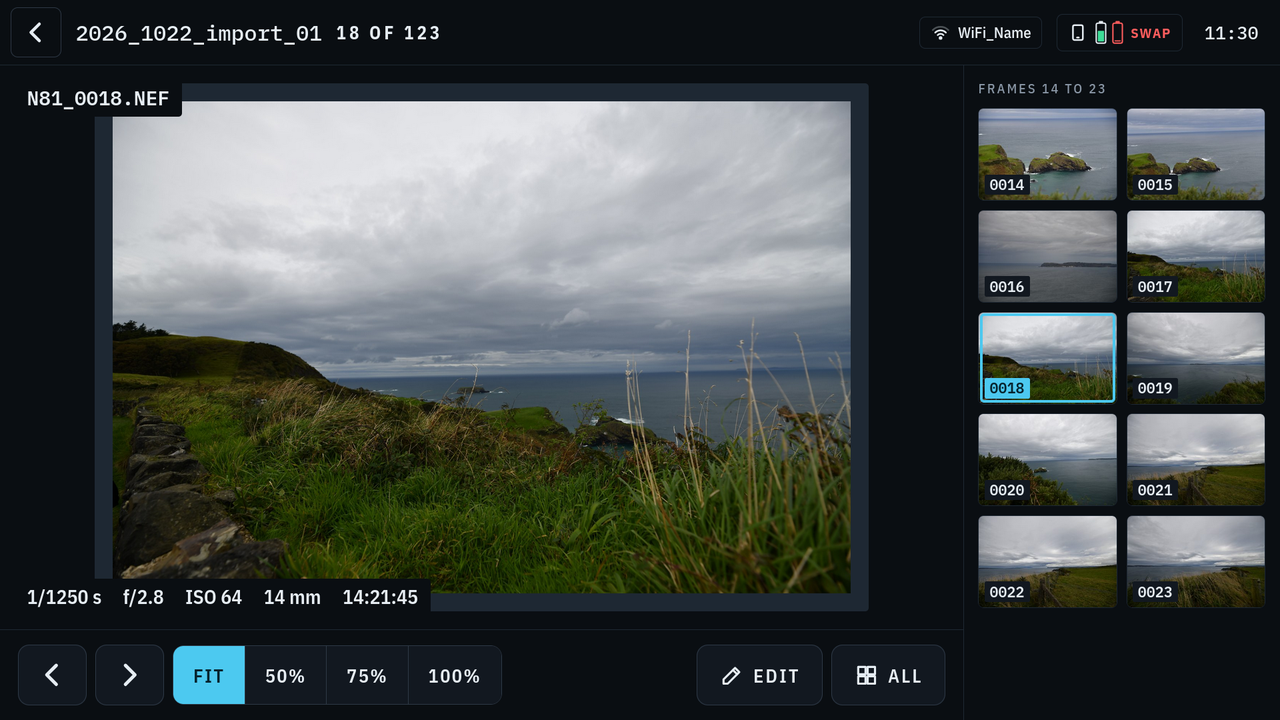
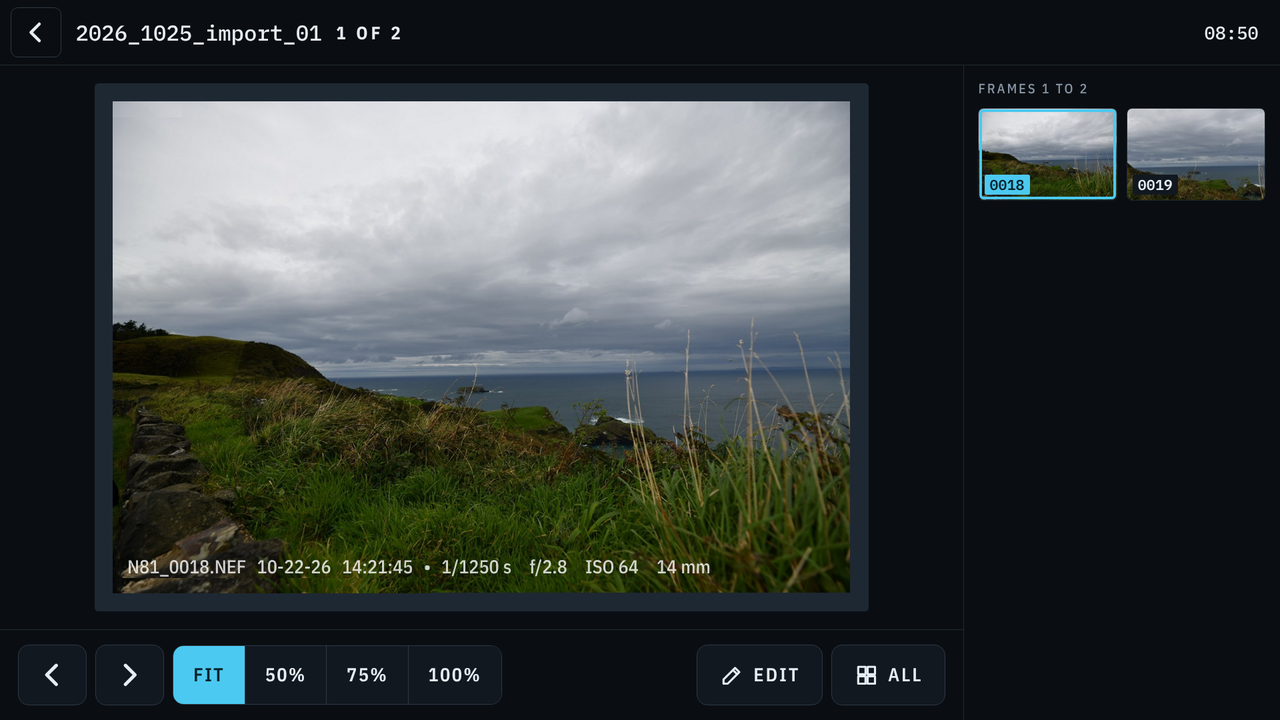
DoubleTake 1.0.3c: Start begins the backup, the date in the viewer, the backlight fades
- Start on the home screen begins the backup, as P1 does; a message says why when it cannot.
- The viewer's line carries the day taken, as 10-22-26.
- The boot ring takes the start-up logo's own shape and place, so one turns into the other.
- doubletake-backlight.service: the brightness fades to its saved level at start-up instead
  of jumping partway through the boot screen.
- GNOME's terminal opens a third larger, window and text, for the updater and Settings.
- Each release gets doubletake-<version>.zip with both packages and install.sh.
- New viewer and Settings, NAS screenshots, and the docs to match.

Claude-Session: https://claude.ai/code/session_018cKjEZUWd3s9HJrQy4wnD2

diff --git a/doubletake/web/app.js b/doubletake/web/app.js
@@ -1248,7 +1248,19 @@ async function prepareDrive() {
 
 // ----- buttons ----------------------------------------------------------------------
 
-$("cam-ready").addEventListener("click", () => { view = "ready"; render(); });
+// Start on the home screen starts the backup itself, as P1 does. Anything that stops it
+// (the tablet's battery, no room) is said in a message instead.
+$("cam-ready").addEventListener("click", async () => {
+  const c = S.camera;
+  if (S.power_problem) { tell("Not now", S.power_problem); return; }
+  if (c.new_bytes + 2e9 > S.tablet.free) {
+    tell("Not enough room", "This backup needs " + bytes(c.new_bytes) + ", and the tablet has " +
+         bytes(S.tablet.free) + " free. Delete shoots that are on both copies, in the shoot library.");
+    return;
+  }
+  const reply = await post("/api/backup/start", { name: "" });
+  if (reply.error) tell("The backup did not start", reply.error);
+});
 $("back").addEventListener("click", () => go(BACK[shown] || "home"));
 $("btn-scan").addEventListener("click", () => post("/api/camera/scan"));
 $("btn-rescan").addEventListener("click", () => post("/api/camera/scan"));
@@ -1321,6 +1333,13 @@ async function getJSON(path) {
   const reply = await fetch(path, { cache: "no-store" });
   if (!reply.ok) throw new Error(String(reply.status));
   return reply.json();
+}
+
+// A message with one button.
+function tell(title, text) {
+  show("confirm-no", false);
+  $("confirm-yes").classList.remove("danger");
+  ask(title, text, "OK").then(() => { show("confirm-no", true); $("confirm-yes").classList.add("danger"); });
 }
 
 function ask(title, text, yes) {
@@ -1574,7 +1593,9 @@ function showPhoto() {
   const token = ++vw.token;
   leaveFull();
   setText("vw-name", file.name);
-  setText("vw-time", new Date(file.taken * 1000).toTimeString().slice(0, 8));
+  const when = new Date(file.taken * 1000);
+  setText("vw-date", shortDate(when.getFullYear(), when.getMonth() + 1, when.getDate()));
+  setText("vw-time", when.toTimeString().slice(0, 8));
   $("vw-exif").replaceChildren();
   show("vw-info", false);
   show("vw-note", false);
@@ -1598,6 +1619,8 @@ function showPhoto() {
     if (info.taken && info.taken.length >= 19) {
       setText("vw-taken", info.taken.slice(11, 19));
       setText("vw-time", info.taken.slice(11, 19));
+      const [y, m, d] = info.taken.slice(0, 10).split(/[-:]/).map(Number);
+      if (y && m && d) setText("vw-date", shortDate(y, m, d));
     }
     const parts = [info.shutter, info.aperture, info.iso, info.focal].filter(Boolean);
     $("vw-exif").replaceChildren(...parts.map((text) => { const el = document.createElement("span"); el.textContent = text; return el; }));
@@ -1744,6 +1767,12 @@ function placeFit() {
 // The photo's name, time and settings: in the photo's bottom-left corner when it is fitted,
 // in the screen's bottom-left when zoomed in. One line, or two (broken at the dot) when one
 // does not fit. A tap on the photo hides or shows it, for every photo, until tapped again.
+// The day a photo was taken, as 07-04-26: month, day and year, two digits each.
+function shortDate(y, m, d) {
+  const two = (v) => String(v).padStart(2, "0");
+  return two(m) + "-" + two(d) + "-" + two(y % 100);
+}
+
 function infoOn() { return !prefs || prefs.viewer_info !== false; }
 
 function placeInfo() {

diff --git a/doubletake/web/index.html b/doubletake/web/index.html
@@ -409,7 +409,7 @@
         <img id="vw-full" class="full" alt="" draggable="false" hidden>
         <div id="vw-note" class="note-c" hidden></div>
         <div id="vw-mode" class="tag mode" hidden>100%</div>
-        <div id="vw-info" class="vw-info"><span class="vi-who"><span id="vw-name"></span><span id="vw-time"></span></span><span class="vi-sep">&#8226;</span><span id="vw-exif" class="vi-how"></span></div>
+        <div id="vw-info" class="vw-info"><span class="vi-who"><span id="vw-name"></span><span id="vw-date"></span><span id="vw-time"></span></span><span class="vi-sep">&#8226;</span><span id="vw-exif" class="vi-how"></span></div>
       </div>
       <div class="tools">
         <button id="vw-prev" class="btn sq" type="button" aria-label="Previous"><svg viewBox="0 0 24 24"><path d="M15 5l-7 7 7 7"/></svg></button>

diff --git a/tests/test_helper.py b/tests/test_helper.py
@@ -10,6 +10,7 @@ import shutil
 import tempfile
 import unittest
 from pathlib import Path
+from unittest import mock
 
 HERE = Path(__file__).resolve().parent
 loader = importlib.machinery.SourceFileLoader("doubletake_helper", str(HERE.parent / "system" / "doubletake-helper"))
@@ -649,6 +650,54 @@ class SplashDefaultTests(HelperBase):
         finally:
             helper.splash = real
         self.assertEqual(seen, [True])
+
+
+class BacklightTests(HelperBase):
+    def panel(self, now, top, saved=None, name="intel_backlight"):
+        base = os.path.join(self.root, "sys/class/backlight", name)
+        os.makedirs(base, exist_ok=True)
+        for f, v in (("brightness", now), ("max_brightness", top)):
+            with open(os.path.join(base, f), "w") as fh:
+                fh.write(f"{v}\n")
+        if saved is not None:
+            d = os.path.join(self.root, "var/lib/systemd/backlight")
+            os.makedirs(d, exist_ok=True)
+            with open(os.path.join(d, f"pci-0000:00:02.0:backlight:{name}"), "w") as fh:
+                fh.write(f"{saved}\n")
+        return os.path.join(base, "brightness")
+
+    def test_fades_down_to_the_saved_level_in_even_steps(self):
+        path = self.panel(96000, 96000, saved=24000)
+        written = []
+        real_open = open
+        def spy(file, mode="r", *a, **kw):
+            fh = real_open(file, mode, *a, **kw)
+            if file == path and "w" in mode:
+                write = fh.write
+                fh.write = lambda text: (written.append(int(text)), write(text))[1]
+            return fh
+        with mock.patch("builtins.open", spy):
+            result = helper.backlight_fade(self.sys, sleep=lambda s: None)
+        self.assertEqual(result["faded"], [{"panel": "intel_backlight", "from": 96000, "to": 24000}])
+        self.assertEqual(written[-1], 24000)
+        self.assertEqual(written, sorted(written, reverse=True))  # always down, never back up
+        self.assertGreater(len(written), 10)
+        self.assertEqual(int(self.file("/sys/class/backlight/intel_backlight/brightness")), 24000)
+
+    def test_nothing_saved_or_nothing_to_change(self):
+        self.panel(96000, 96000)
+        self.assertEqual(helper.backlight_fade(self.sys, sleep=lambda s: None)["faded"], [])
+        self.panel(500, 1000, saved=500, name="acpi_video0")
+        self.assertEqual(helper.backlight_fade(self.sys, sleep=lambda s: None)["faded"], [])
+
+    def test_never_darker_than_the_system_allows(self):
+        self.panel(1000, 1000, saved=0)
+        result = helper.backlight_fade(self.sys, sleep=lambda s: None)
+        self.assertEqual(result["faded"][0]["to"], 50)  # 5%, as the system clamps it
+
+    def test_a_strange_panel_name_is_left_alone(self):
+        self.panel(1000, 1000, saved=300, name="bad name")
+        self.assertEqual(helper.backlight_fade(self.sys, sleep=lambda s: None)["faded"], [])
 
 
 class FlickerTests(HelperBase):

diff --git a/doubletake/updates.py b/doubletake/updates.py
@@ -174,9 +174,14 @@ def check_sums(folder: Path, sums_text: str, names) -> str:
 # ----- the terminal ----------------------------------------------------------------------------
 
 
+# GNOME's terminal (Red Hat and Rocky) opens a third larger than usual, window and text alike, so it
+# reads easily on the tablet's screen. Other terminals open as they are set up.
+BIG_TERMINAL = ("--geometry=80x24", "--zoom=1.35")
+
+
 def open_terminal(command: list) -> bool:
     """Open the desktop's own terminal running a command. False when there is none."""
-    for args in (["ptyxis", "--"], ["gnome-terminal", "--"], ["kgx", "--"], ["xterm", "-e"]):
+    for args in (["ptyxis", "--"], ["gnome-terminal", *BIG_TERMINAL, "--"], ["kgx", "--"], ["xterm", "-e"]):
         if shutil.which(args[0]):
             try:
                 subprocess.Popen(args + command, start_new_session=True,

diff --git a/tests/test_updates.py b/tests/test_updates.py
@@ -227,5 +227,16 @@ class WallpaperTests(unittest.TestCase):
                 self.assertFalse(maintenance.quiet())
 
 
+
+class TerminalTests(unittest.TestCase):
+    def test_gnome_terminal_opens_big(self):
+        started = []
+        which = lambda name: "/usr/bin/" + name if name == "gnome-terminal" else None
+        with mock.patch.object(updates.shutil, "which", which), \
+                mock.patch.object(updates.subprocess, "Popen", lambda args, **kw: started.append(args)):
+            self.assertTrue(updates.open_terminal(["doubletake", "update"]))
+        self.assertEqual(started, [["gnome-terminal", "--geometry=80x24", "--zoom=1.35", "--", "doubletake", "update"]])
+
+
 if __name__ == "__main__":
     unittest.main()

diff --git a/doubletake/settings.py b/doubletake/settings.py
@@ -213,7 +213,7 @@ def open_app(which: str) -> str:
     """Open the desktop's file manager or terminal on top of the screens."""
     choices = {
         "files": [["nautilus", os.path.expanduser("~")], ["xdg-open", os.path.expanduser("~")]],
-        "terminal": [["gnome-terminal"], ["ptyxis"], ["konsole"], ["xterm"]],
+        "terminal": [["gnome-terminal", "--geometry=80x24", "--zoom=1.35"], ["ptyxis"], ["konsole"], ["xterm"]],
     }
     for command in choices.get(which, []):
         if shutil.which(command[0]):

diff --git a/doubletake/__init__.py b/doubletake/__init__.py
@@ -1,3 +1,3 @@
 """DoubleTake: verified camera backup for a field tablet."""
 
-__version__ = "1.0.2.5c"
+__version__ = "1.0.3c"

diff --git a/docs/USER-GUIDE.md b/docs/USER-GUIDE.md
@@ -20,9 +20,11 @@ Then DoubleTake, two ways: the package, which is the easy one, or setup.sh from 
 
 ### The package
 
-Download `doubletake-<version>-1.el9.x86_64.rpm` (Red Hat, Rocky or Alma 9) or
-`doubletake-<version>-1.fc.x86_64.rpm` (Fedora), and `install.sh`, into one folder. Then,
-as the tablet's own user (an administrator: in the wheel group):
+Download `doubletake-<version>.zip` from the latest release and unpack it (double-click
+it in Files). It holds the package for Red Hat, Rocky and Alma 9 (`el9`), the one for
+Fedora (`fc`), and `install.sh`, which picks the right one. The packages and install.sh are
+also on the release on their own. Then, in the unpacked folder, as the tablet's own user
+(an administrator: in the wheel group):
 
     bash install.sh
 
@@ -101,6 +103,9 @@ What happens by itself:
 
 - **The camera is found when it is plugged in.** The home screen reads its cards and
   shows how many photos are new. The first read after plugging in takes about a minute.
+- **Start begins the backup.** Tap **Back up camera** on the home screen, or press P1 on
+  the 7220, and copying starts straight away. If it cannot (the tablet's battery is too low
+  off its charger, or there is not enough room), a message says why.
 - **The second copy runs in the background.** It starts once a tenth of the backup from
   the camera is done and follows a little behind it, from the tablet's own drive: it only
   ever takes photos already verified on the tablet. As soon as the photos are on the
@@ -137,7 +142,7 @@ last one, into a folder of its own: the day of the import, `import`, and a numbe
 that day. If the camera's cards
 were not formatted in between, the records know what is already on the tablet, so the next
 folder holds only the new photos. A backup stopped part-way is carried on in its own
-folder. The start screen shows the folder before you start.
+folder.
 
 **Gaps in the numbers are normal.** A deleted shoot's number is not used again. Import three
 times in a day (`_01`, `_02`, `_03`), delete `_03`, and the next import that day is `_04`,
@@ -192,7 +197,8 @@ Safe to Format counts Copy 1 and Copy 2 only.
   at half the sensor's size: the camera's white balance and an automatic brightness, good
   for choosing and checking photos but not a finished conversion. Making its pictures
   takes about a second each.
-- **On the photo,** in its bottom-left corner: the file name and the time taken, then a dot
+- **On the photo,** in its bottom-left corner: the file name, the day and time taken
+  (`10-22-26  14:21:45`), then a dot
   and the exposure (shutter, aperture, ISO, focal length), read from the RAW file. It is
   one line, or two when the photo is too narrow for one (portrait photos), broken where the
   dot is. Zoomed in, it sits in the screen's bottom-left corner instead. **Tap the photo**
@@ -456,7 +462,7 @@ Settings, Backup rules, **What to copy**:
 - **RAW + JPEG** (the default): RAW and JPEG photos. Videos stay on the camera.
 - **Everything:** every file in the camera's DCIM folder, videos too.
 
-What is left on the camera is listed on the Ready screen. The camera cards are never called
+What is left on the camera is counted on the camera cards tile. The camera cards are never called
 safe to format while anything is left on them: the card tile says the copied photos are
 safe, and how many JPEGs or videos would be lost by formatting. Changing the setting reads
 the camera again.
@@ -630,7 +636,8 @@ closed, so nothing is ever being copied while packages change. In the field noth
 looked for.
 
 - At a Maintenance visit, when the tablet is due a look (every 30 days, or every 60 or
-  90: Settings, Device, Updates), a terminal opens and asks **Check for updates now?**
+  90: Settings, Device, Updates), a terminal opens, a third larger than usual, and asks
+  **Check for updates now?**
 - **Off:** nothing is looked for at a Maintenance visit, not even security fixes. Keep the
   tablet up to date yourself, with `doubletake update` in a terminal.
 - It looks for the system's own updates (Rocky, Red Hat or Fedora) and says how many are

diff --git a/docs/HOW-IT-WORKS.md b/docs/HOW-IT-WORKS.md
@@ -120,10 +120,18 @@ only on the tablet; the second copy catches up when a card is put in.
   its own logo (the ACPI BGRT table, `/sys/firmware/acpi/bgrt`), the helper copies that
   logo in beside the theme and writes its place into the script: the boot screen shows it
   in the same spot on black, then fades it into the ring and icon, centred there and the
-  same size. Without the table (a VM, older firmware), the screen is centred. Without the plugin, a still picture of
+  same size. A round logo stored a little oval (the 7220's is 411 by 430) gets a ring of
+  that very shape, so the two lie on each other as one fades into the other; the script
+  turns the ring's colours first and shapes it after, so the oval stays still as it spins. Without the table (a VM, older firmware), the screen is centred. Without the plugin, a still picture of
   the same (`watermark.png`) on the system spinner theme's images.
   The helper's `splash on|off` job switches to it with `plymouth-set-default-theme -R`
   (which rebuilds the start-up image) and back to the theme it replaced.
+- **The backlight at start-up:** the firmware starts the panel at full brightness, and the
+  system puts the level last used back in one step, partway through the boot screen.
+  `doubletake-backlight.service` runs the helper's `backlight fade` job just before that:
+  it fades from where the panel is to the saved level in about a second, along a curve the
+  eye sees as even, so the system's own step has nothing left to change. The level is
+  still saved at shutdown by the system, as before.
 - **Batteries** are read every 20 seconds during a backup, between photos: the camera's
   through libgphoto2, the tablet's from `/sys/class/power_supply`. A stop for a battery is
   the same clean stop as the Stop button.

diff --git a/CHANGELOG.md b/CHANGELOG.md
@@ -1,5 +1,21 @@
 # Changelog
 
+## 1.0.3c
+- **Start begins the backup.** Tapping Back up camera on the home screen starts copying
+  straight away, as P1 does. If it cannot start (the tablet's battery too low off its
+  charger, or not enough room), a message says why.
+- **The day a photo was taken** is in the viewer's line now: `10-22-26  14:21:45`.
+- **The boot screen's ring takes the shape of the start-up logo.** A round maker's logo
+  stored a little oval, as the 7220's is, gets a ring of that very shape and place, so one
+  turns into the other with nothing to line up. The ring spins without wobbling.
+- **No jump in brightness at start-up.** The panel comes up at full brightness, and the
+  level you last used used to come back in one step partway through the boot screen. It now
+  fades down to it in about a second.
+- **Larger terminal windows.** The updater and the other terminals DoubleTake opens come up
+  a third larger than usual, window and text alike, on Red Hat and Rocky.
+- **One download:** each release has a zip with both packages and install.sh, which picks
+  the right package itself.
+
 ## 1.0.2.5c
 - **The boot screen's ring meets the maker's logo evenly.** The 7220's Dell logo is drawn a
   little oval (411 by 430), and the ring was sized to its height, so at the sides it stood

diff --git a/README.md b/README.md
@@ -224,8 +224,9 @@ strict in practice:
 
 ### The package
 
-Download the package for your system from the latest release, and `install.sh` with it,
-into one folder. Then, as the tablet's own user:
+Download `doubletake-<version>.zip` from the latest release and unpack it (double-click it
+in Files). It holds the packages for both systems and `install.sh`, which picks the right
+one. Then, in that folder, as the tablet's own user:
 
 ```bash
 bash install.sh
